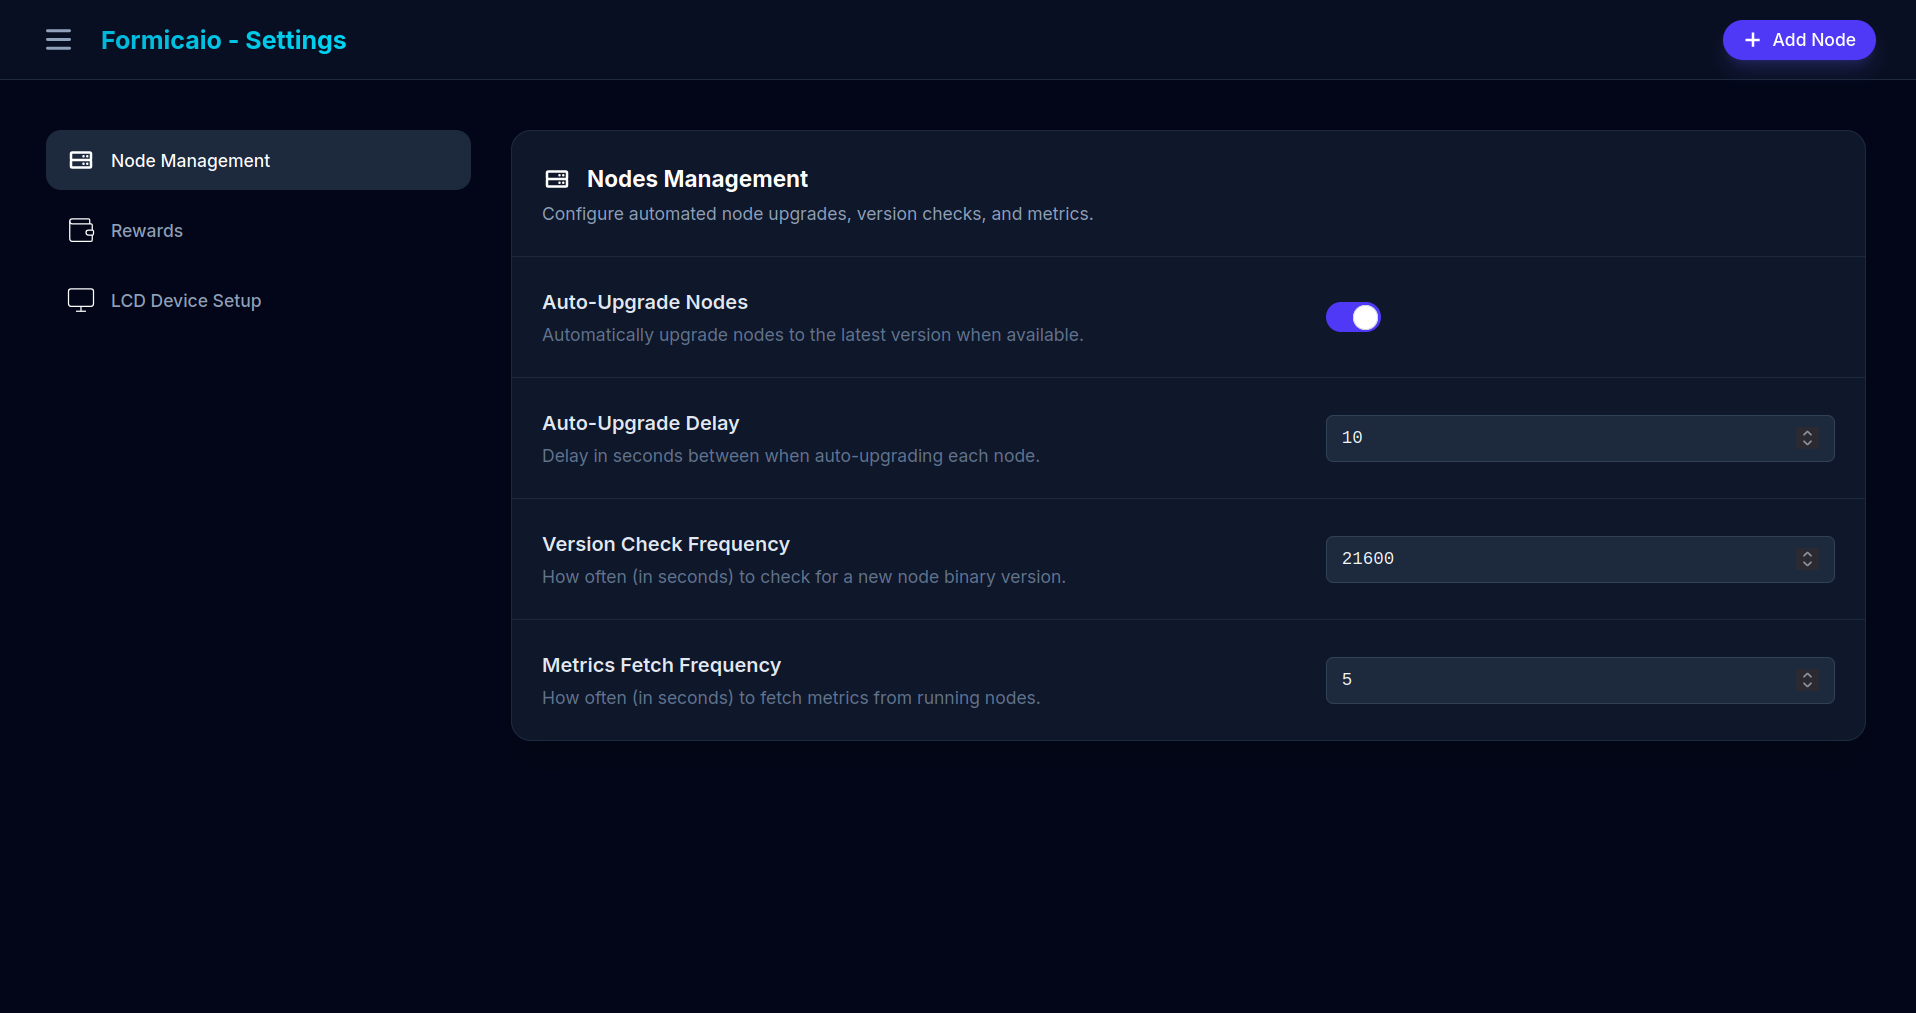
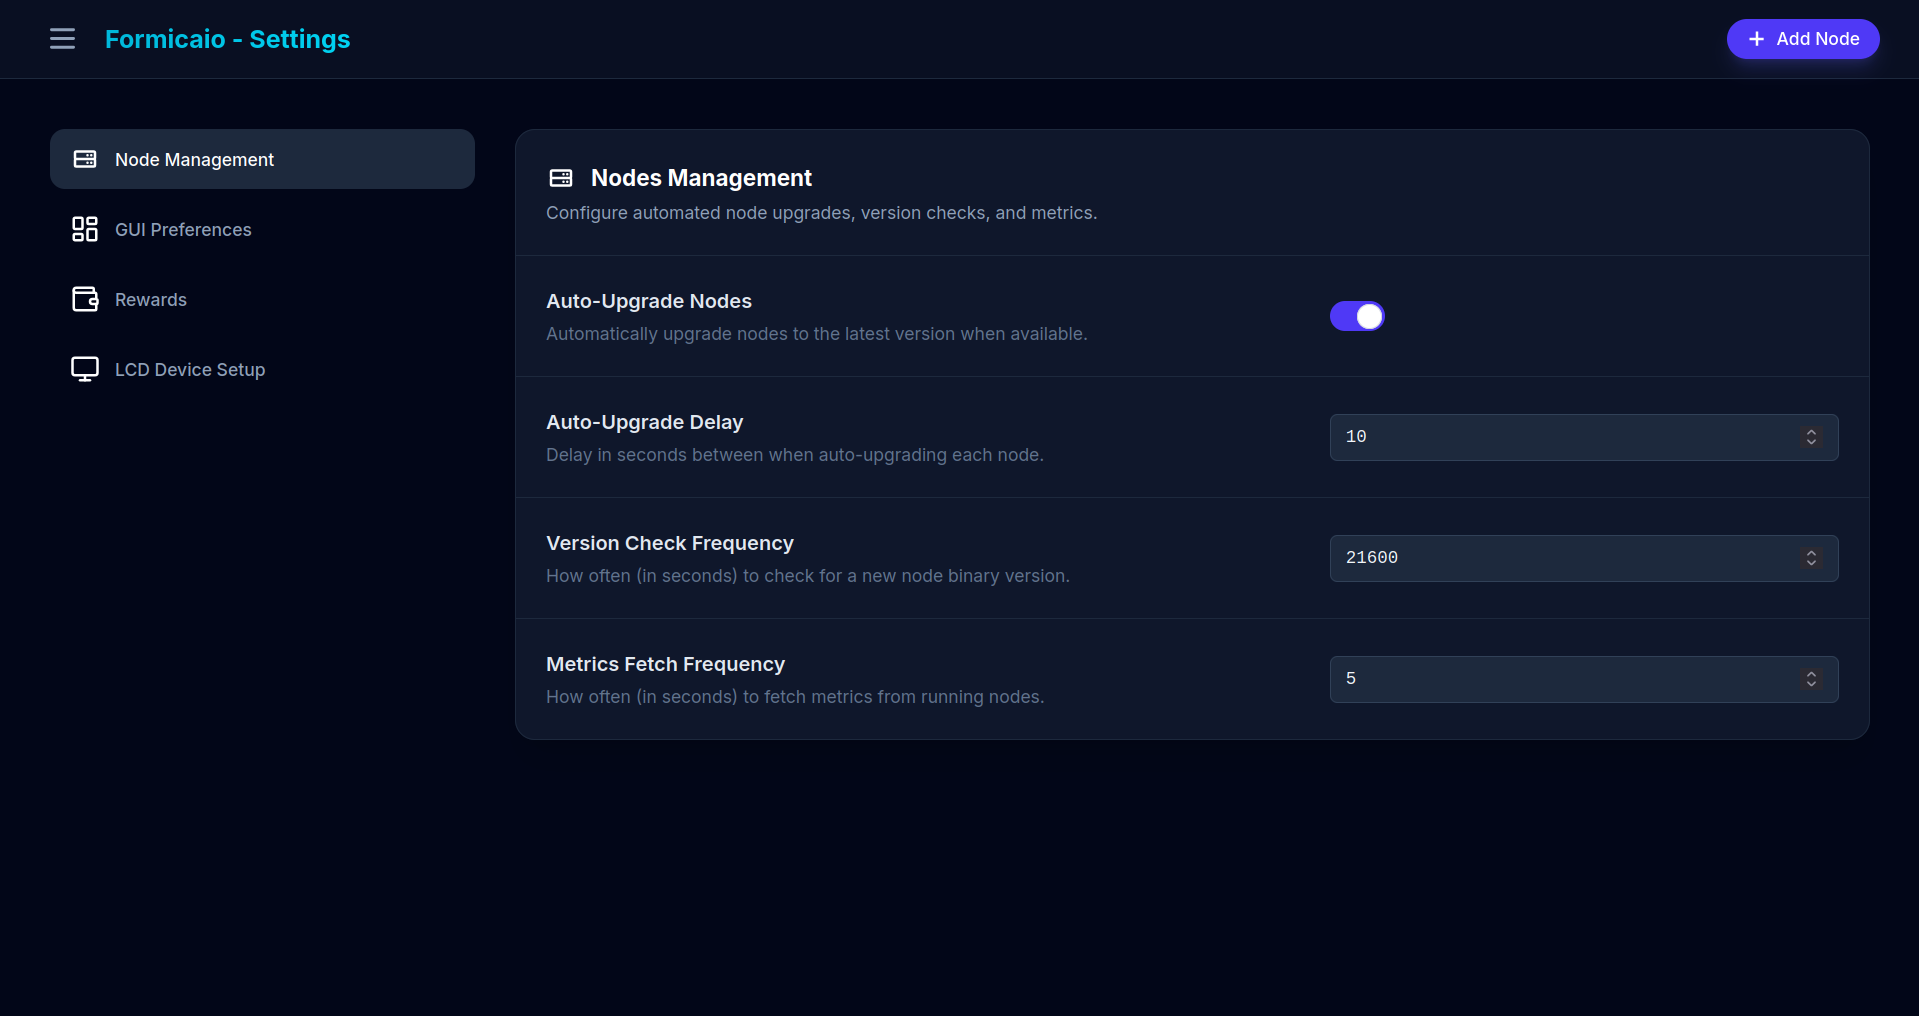
docs: update screenshots and readme

diff --git a/README.md b/README.md
@@ -49,8 +49,11 @@ With Formicaio, you can easily run and manage nodes using either a graphical use
 - **View individual node logs** in real-time
 - **Monitor memory and CPU usage** with detailed charts
 - **Sort nodes** by different criteria (creation date, status, connected peers, etc.)
+- **Alternate between tile and list layouts** in the nodes page.
+- **Terminal** to query and action on nodes through a CLI.
 
 <img src="img/screenshot_05.png" width="400" height="212" />
+<img src="img/screenshot_05_b.png" width="400" height="212" />
 <img src="img/screenshot_06.png" width="400" height="212" />
 
 ### 📊 Real-time Monitoring & Statistics
@@ -64,6 +67,7 @@ The Formicaio backend actively monitors your nodes, providing real-time status u
 - **Peers in routing table** (k-buckets)
 - **Shunned peers** tracking
 - **Estimated total nodes** in the network
+- **Disk usage**
 
 <img src="img/screenshot_01_b.png" width="400" height="212" />
 <img src="img/screenshot_01.png" width="400" height="212" />
@@ -74,6 +78,7 @@ The Formicaio backend actively monitors your nodes, providing real-time status u
 A comprehensive settings panel allows you to customize monitoring tasks and node management:
 
 - **Auto-upgrade nodes** when new binary versions are available
+- **Nodes page default layout** between tile and list modes, and page size
 - **Configurable delays** for node upgrades
 - **Version check frequency** for the node binary
 - **Token balance query frequency**
@@ -84,6 +89,7 @@ A comprehensive settings panel allows you to customize monitoring tasks and node
 <img src="img/screenshot_04.png" width="400" height="212" />
 <img src="img/screenshot_04_b.png" width="400" height="212" />
 <img src="img/screenshot_04_c.png" width="400" height="212" />
+<img src="img/screenshot_04_d.png" width="400" height="212" />
 
 ### 🌐 Network Connectivity Options
 
